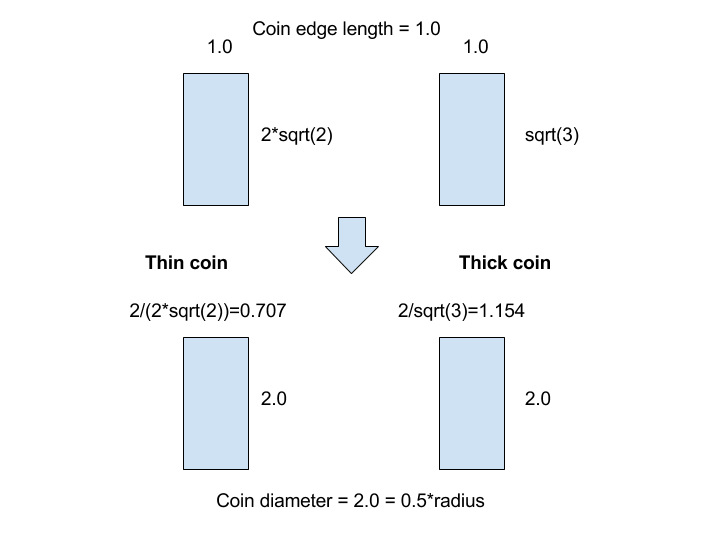
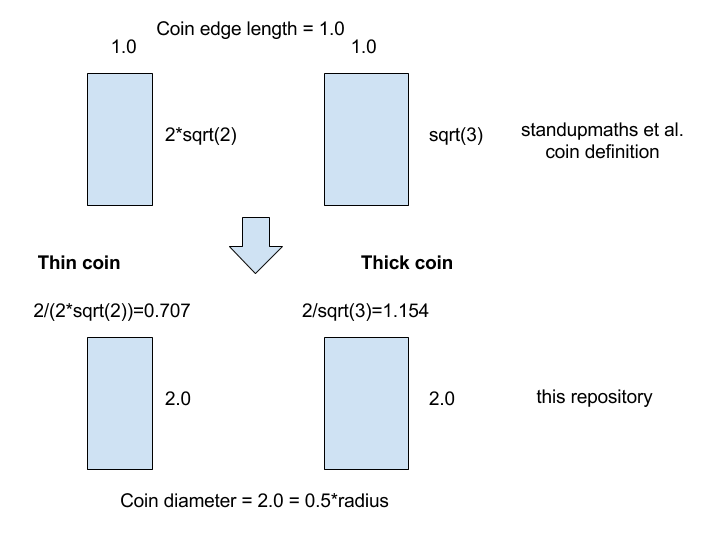
Some more clarification and graphs

diff --git a/README.md b/README.md
@@ -1,11 +1,13 @@
 # Three sided coin
 What should be the size of coin edge so that the coin lands on edge with ~33% chance?
 
+![Coin blueprint](https://github.com/iaroslav-ai/coin-experiment/blob/master/media/coin_blueprint.png?raw=true "Coin blueprint")
+
 **Answer**:
 
 Let the coin diameter be of size 2.0. Then the coin edge should be around 1.043. 
 
-Fine more experimental details below!
+Find more experimental details below!
 
 ## Inspired by:
 
